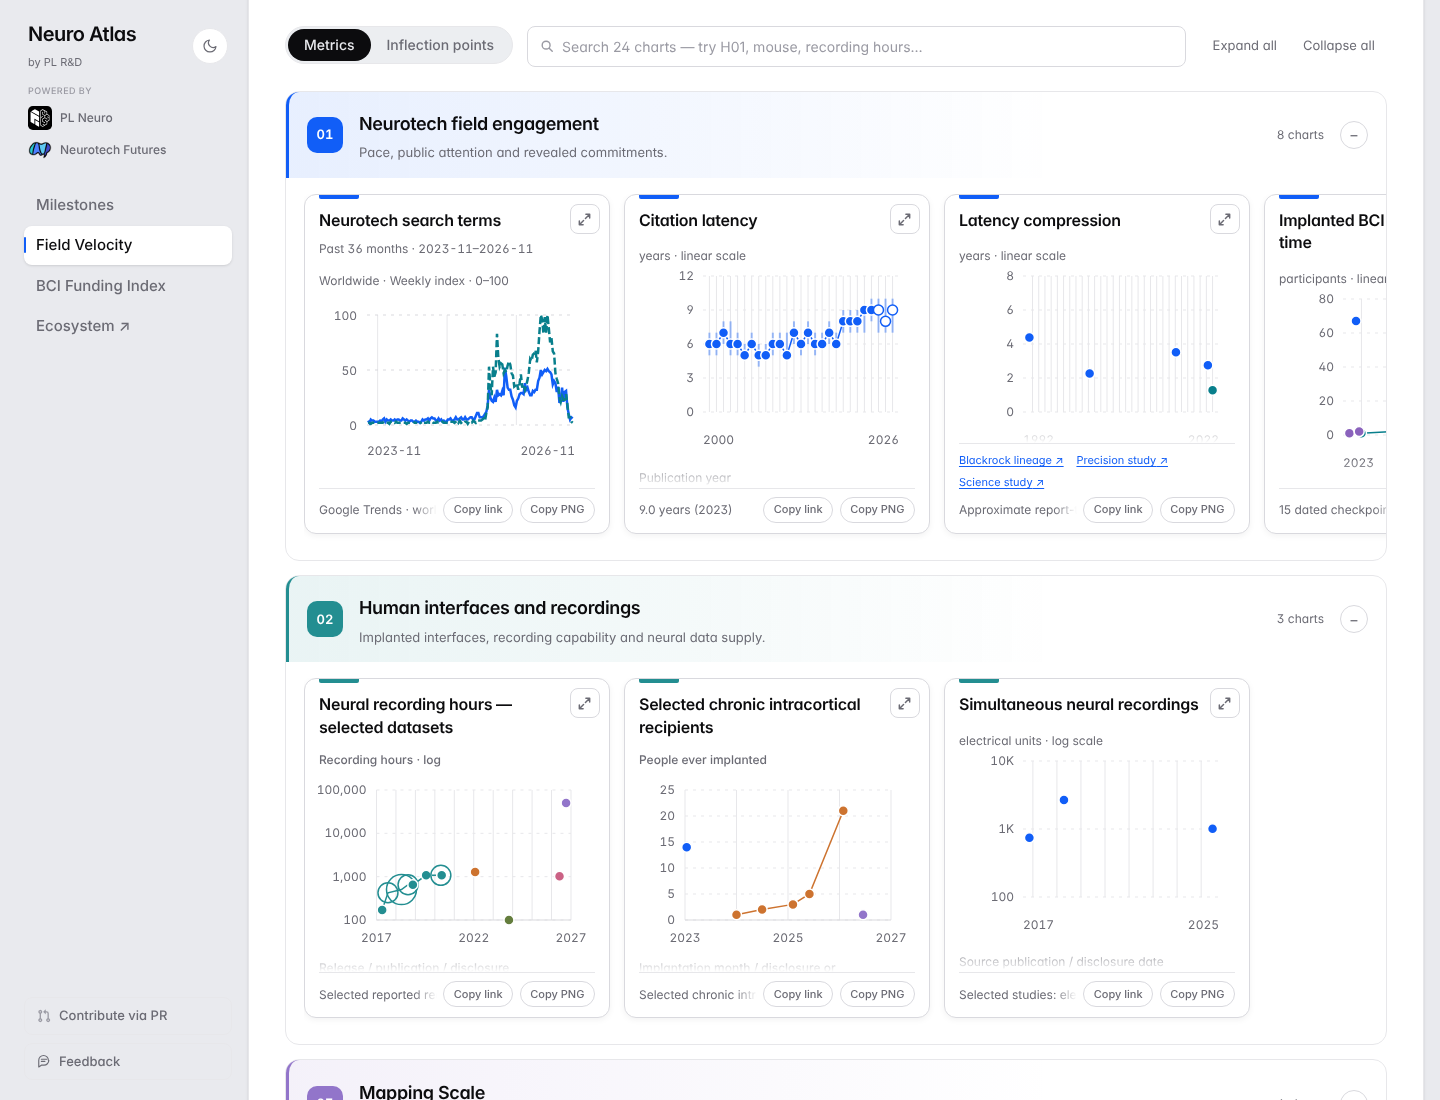
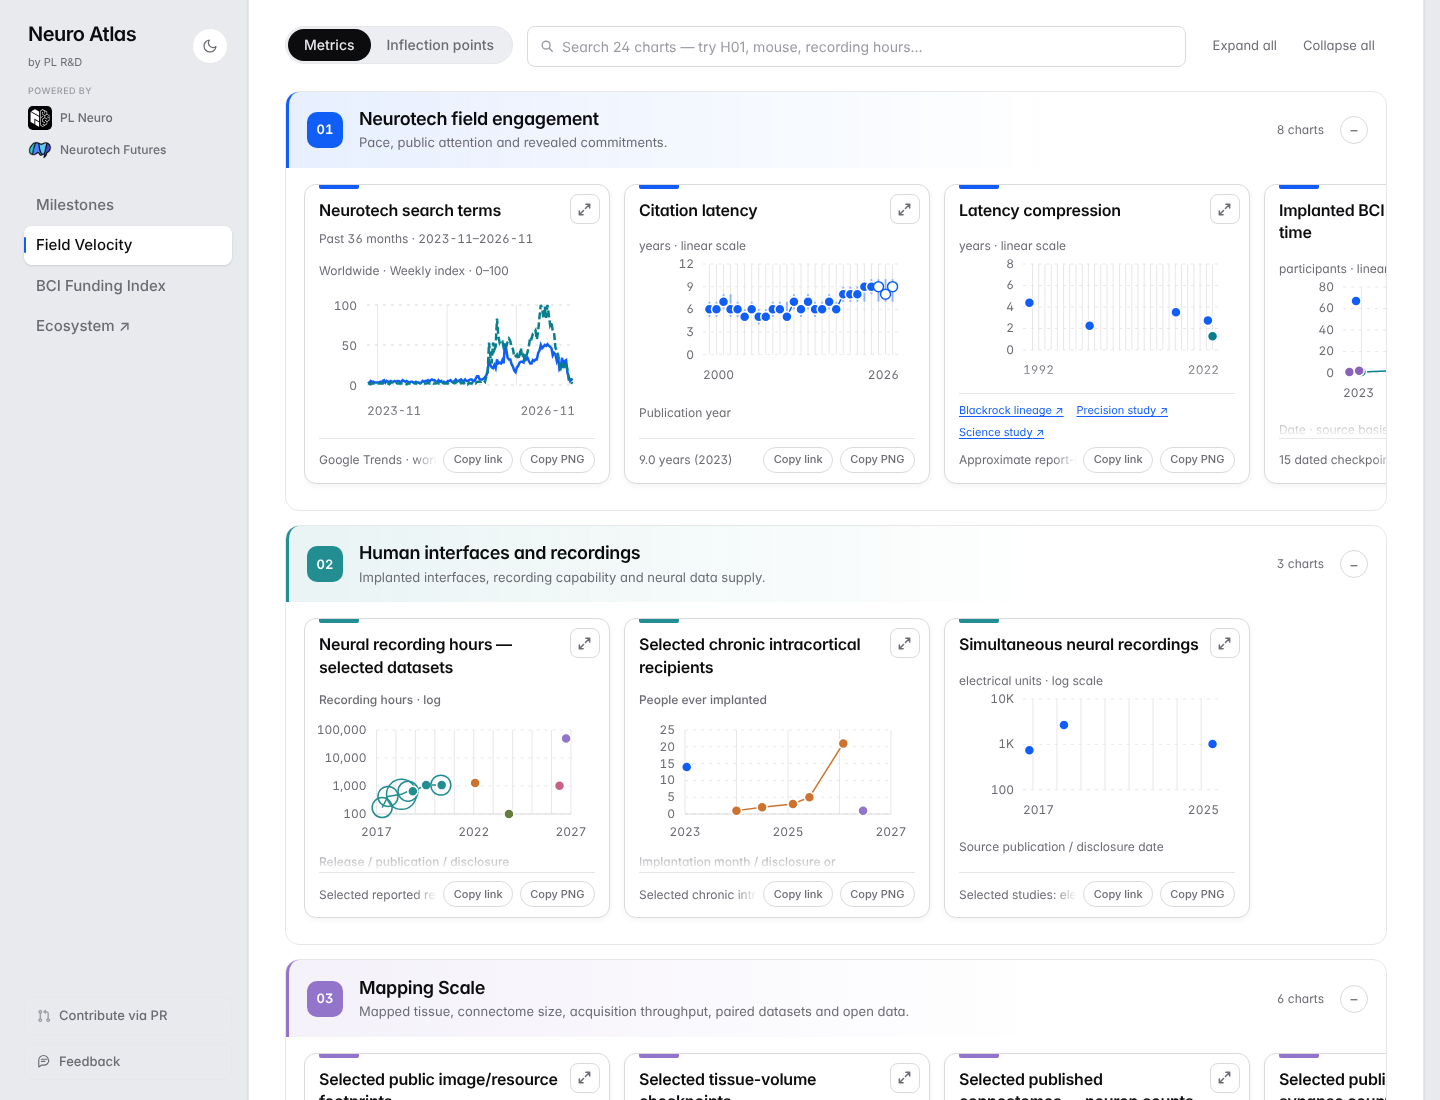
Metrics: match the mockup's card proportions (300px cards, shorter previews) (#106)
Cards were 340px with taller plots than the reviewed mockup (311x300).
Cap rail cards at 300px and shorten compact rail frames only: draft
plotting band 130 -> 84px, Trends 180 -> 150px, curve/pace 220 -> 160px,
publication previews 235 -> 170px. Expanded pop-out and PNG export
geometry are unchanged. Chapter headers are tightened to ~76px while the
toggle keeps its 44px touch target.

Tests pinning the compact frames are updated; reference-preview-font
geometry hashes are re-pinned for the new compact frame only.

Claude-Session: https://claude.ai/code/session_0131bWo29fUTZaidDfFqn2Zs

diff --git a/src/components/draft-chart-plot.css b/src/components/draft-chart-plot.css
@@ -98,7 +98,7 @@
 }
 
 /* Unified metrics navigation; legacy plot classes remain stable compatibility hooks. */
-.metrics-index { --metric-card-max-height: 340px; position: relative; max-width: 78rem; min-width: 0; }
+.metrics-index { --metric-card-max-height: 300px; position: relative; max-width: 78rem; min-width: 0; }
 .metrics-index [hidden] { display: none !important; }
 /* Important declarations must share Tailwind's base layer to beat its hidden reset. */
 @layer base {
@@ -132,7 +132,7 @@
 .metric-category[data-metric-state="collapsed"] .metric-category-head { border-radius: 13px; }
 .metric-category-index { grid-row: 1 / span 2; display: grid; place-items: center; width: 36px; height: 36px; border-radius: 10px; background: var(--metric-tone); color: #fff; font-size: 13px; font-weight: 600; font-variant-numeric: tabular-nums; }
 .metric-category h2 { grid-column: 2; grid-row: 1; min-width: 0; margin: 0; }
-.metric-category h2 > button { display: grid; grid-template-columns: auto minmax(0, 1fr); align-items: baseline; gap: 0; width: 100%; min-height: 44px; margin-block: -6px -4px; padding: 0; align-content: center; text-align: left; font-size: 18px; line-height: 1.3; letter-spacing: -.02em; font-weight: 600; color: var(--foreground); cursor: pointer; }
+.metric-category h2 > button { display: grid; grid-template-columns: auto minmax(0, 1fr); align-items: baseline; gap: 0; width: 100%; min-height: 44px; margin-block: -11px -9px; padding: 0; align-content: center; text-align: left; font-size: 18px; line-height: 1.3; letter-spacing: -.02em; font-weight: 600; color: var(--foreground); cursor: pointer; }
 /* The whole header is the hit area; the button itself stays the only interactive element. */
 .metric-category h2 > button::after { content: ""; position: absolute; inset: 0; border-radius: inherit; }
 .metric-category h2 > button:focus-visible { outline: none; }

diff --git a/src/components/performance-curves.tsx b/src/components/performance-curves.tsx
@@ -58,7 +58,7 @@ export function chartGeometry(data: PlotData) {
 /** A compact coordinate frame keeps card ticks readable without changing full-chart geometry. */
 function compactChartGeometry(data: PlotData, extraHeight = 0, width = 360) {
   const full = chartGeometry(data);
-  const height = 220 + extraHeight, left = 64, right = 16, top = 32, bottom = 52;
+  const height = 160 + extraHeight, left = 64, right = 16, top = 30, bottom = 44;
   return { ...full, width, height, left, right,
     x: (date: string) => left + (full.x(date) - full.left) / (full.width - full.left - full.right) * (width - left - right),
     y: (value: number) => top + (full.y(value) - 28) / (full.height - 28 - 44) * (height - top - bottom),

diff --git a/src/components/publication-charts.tsx b/src/components/publication-charts.tsx
@@ -350,7 +350,7 @@ function PublicationCard({index,snapshot,data}:{index:number;snapshot:Publicatio
   const hasScience=annualScienceAvailable(data);
   const preview=useRef<HTMLDivElement>(null);
   const previewExtra=useMetricPreviewSpace(preview,true);
-  const previewHeight=235+previewExtra;
+  const previewHeight=170+previewExtra;
   return <article className="pc-card card publication-card" data-metric-tile data-performance-card={anchor} data-publication-card={anchor}>
     <div data-metric-card-body>
       <button ref={trigger} className="pc-trigger" type="button" aria-haspopup="dialog" aria-expanded={open} onClick={()=>navigatePerformance(anchor)}><span className="pc-card-title">{titles[index]}</span></button>

diff --git a/src/components/google-trends.tsx b/src/components/google-trends.tsx
@@ -27,7 +27,7 @@ const colors = ['var(--accent)', '#087f8c'];
 function TrendPlot({ group, compact = false, link, intro }: { group: Group; compact?: boolean; link?: React.ReactNode; intro?: React.ReactNode }) {
   const plotRef = useRef<HTMLDivElement>(null);
   const previewExtra = useMetricPreviewSpace(plotRef, compact);
-  const baseHeight = compact ? 180 : 270;
+  const baseHeight = compact ? 150 : 270;
   const height = baseHeight + previewExtra;
   const tooltip = usePointTooltip<string>();
   const [previewWidth, setPreviewWidth] = useState(560);

diff --git a/src/components/draft-chart-plot.tsx b/src/components/draft-chart-plot.tsx
@@ -100,7 +100,7 @@ export function DraftChartPlot({ plot, shareAnchor, preview = false }: { plot: D
   const yTitle = wrapLabel(yLabel, width - 12);
   const xTitle = wrapLabel(plot.xLabel, width - 12);
   const top = 28 + yTitle.length * 16;
-  const bottom = top + (preview ? 130 : 232) + previewExtra;
+  const bottom = top + (preview ? 84 : 232) + previewExtra;
   const baseHeight = bottom + 64 + (xTitle.length - 1) * 16;
   const xs = plot.points.map(point => point.x);
   const ys = plot.points.map(point => point.y);

diff --git a/docs/qa/metrics-chapter-redesign/README.md b/docs/qa/metrics-chapter-redesign/README.md
@@ -11,7 +11,7 @@ Bring the reviewed Field velocity redesign mockup to the live **Metrics** tab. S
 - **Groups as numbered chapters.** Each group is a bordered, rounded chapter with a tone badge (01–05), a coloured left edge and tint, its existing `METRIC_GROUPS.summary` line, a rendered chart count and a round ± indicator. The whole header is the hit area; the existing `data-metric-toggle` button remains the only control and its accessible name is still exactly the group name. Tones: blue, teal, purple, orange, pink in reading order.
 - **Compact rail.** About 3.3 cards per row on desktop (three plus a peek), two plus a peek on mid-width plates (container query), unchanged one-card-plus-peek on phones.
 - **Card chrome.** Short signature tab in the group tone (as on exported PNGs), decorative expand icon (top right, the card was already the click target), accent hover, tighter padding, one footer row.
-- **Shorter previews, capped cards.** Draft preview plotting band 200 → 130px; Google Trends preview 238 → 180px. Expanded/exported chart geometry is unchanged. `useMetricCardHeight` honours an optional `--metric-card-max-height` (340px on Metrics): cards still share one height, and a preview taller than the cap fades out above the footer (`data-metric-clipped`) instead of stretching every card.
+- **Shorter previews, capped cards (mockup proportions).** Cards are 300px tall at about 306px wide, as in the mockup (311×300). Compact rail frames only: draft plotting band 200 → 84px, Google Trends preview 238 → 150px, curve/pace preview 220 → 160px, publication previews 235 → 170px. Expanded pop-out and PNG export geometry are unchanged. `useMetricCardHeight` honours an optional `--metric-card-max-height` (300px on Metrics): cards still share one height, and a preview taller than the cap fades out above the footer (`data-metric-clipped`) instead of stretching every card.
 - **Grey source line in every card footer.** Each card's existing qualifier moves from the (now clippable) preview body into the footer row next to the buttons, so the cap never cuts it off: draft scope and dataset lists, curve/pace `coverage` and preview notes, publication scope lines. Trends cards get "Google Trends · worldwide · weekly index 0–100", composed from facts already stated in its pop-out. No new claims. Long lines fade at the edge and scroll sideways (trackpad/shift-wheel, or click-and-drag); the full text is also the tooltip.
 - **Copy PNG on every card.** Copies the same branded PNG as the pop-out's Copy chart. The card asks its own pop-out content to mount in an inert, `aria-hidden`, off-screen host (`ChartModal offscreen`), waits for that chart's share control to register, builds the image with the existing `buildChartImage`/`chartPng`, then unmounts it. No dialog opens, the URL hash is untouched, and the clipboard write starts inside the click (`copyDeferredChartImage`) so user activation is kept. Verified for all 24 cards in Chromium; output matches the pop-out export visually (byte-level PNG encoding differs).
 - **Pop-out chrome.** Round close button overhanging the top-right corner (accessible name unchanged), title vertically centred, panel scrolls internally so the close control never scrolls away.
@@ -23,7 +23,7 @@ These tests pinned the previous design and were updated, not deleted:
 | Test | Previous contract | New contract |
 |---|---|---|
 | `metrics-grid-breakpoint`, `chart-landscape-rails` | one landscape card (`(100% - 1rem)/1.25`) | three cards and a peek (`(100% - 2.625rem)/3.34`), two-and-a-peek mid-width |
-| `chart-landscape-rails`, `draft-chart-popout`, `neuroai-axis-break` | preview band 200px, Trends 238px | 130px, 180px (expanded frames unchanged at 232/270) |
+| `chart-landscape-rails`, `draft-chart-popout`, `neuroai-axis-break`, `chart-presentation`, `reference-preview-font` | preview band 200px, Trends 238px, curve frame 220px | 84px, 150px, 160px (expanded frames unchanged at 232/270/300); `reference-preview-font` preview geometry hashes re-pinned for the new compact frame only |
 | `metrics-rails` | sibling divider lines between headline-only sections | bordered, numbered chapters with tone |
 | `metrics-flat-cards` | intro sentence once; no group summary | no intro sentence; summary shown per chapter |
 
